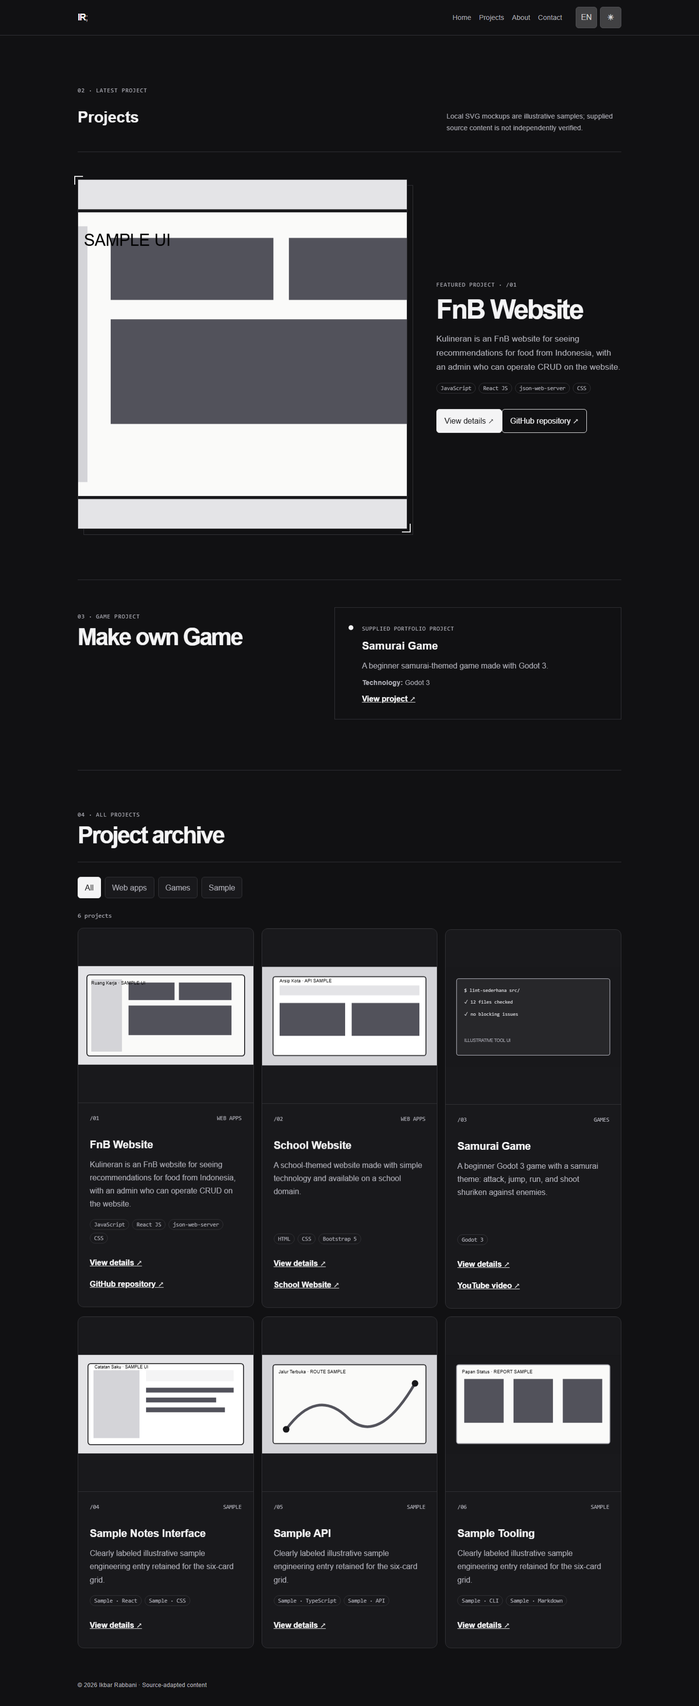
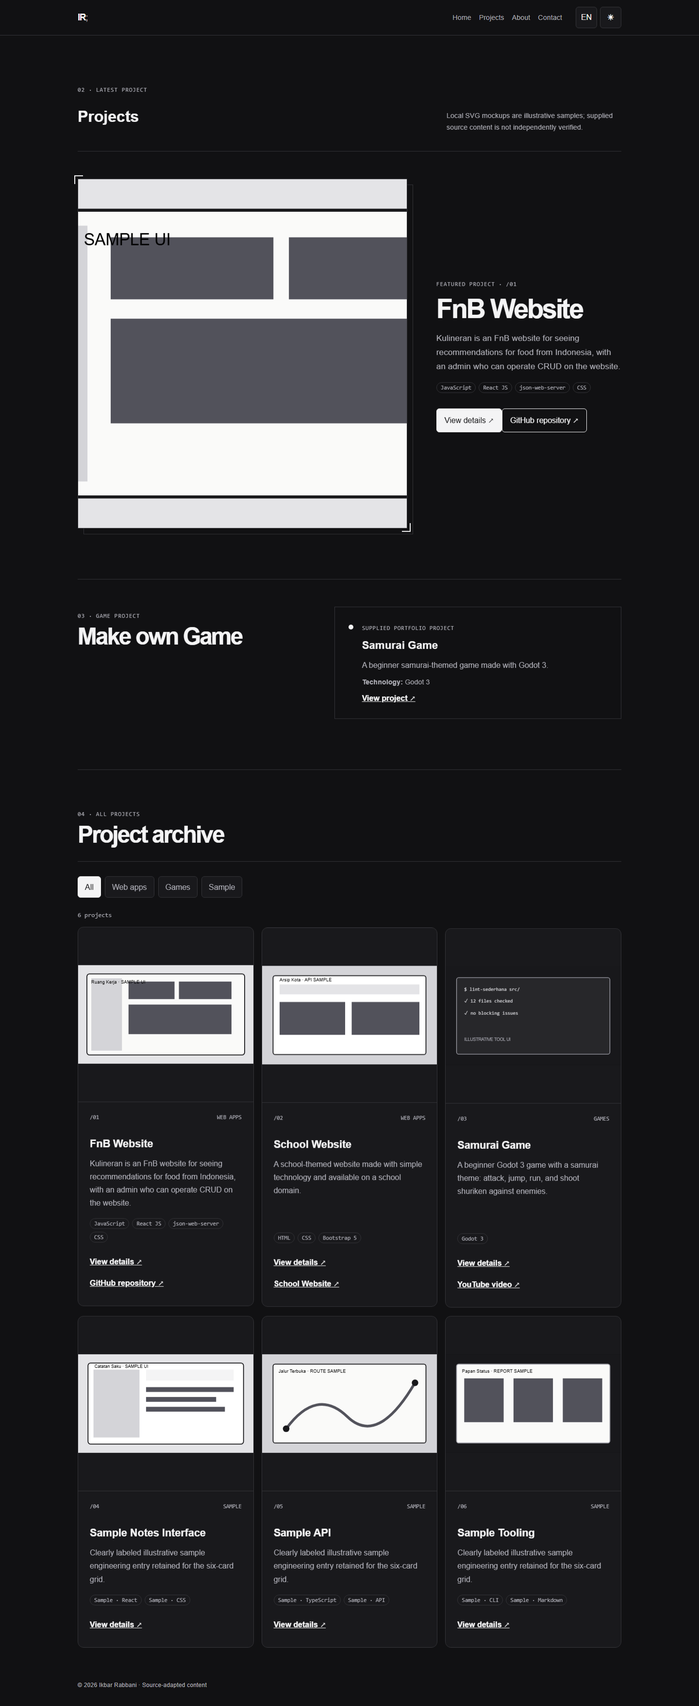
feat: upgrade UI/UX

diff --git a/src/App.tsx b/src/App.tsx
@@ -40,8 +40,8 @@ function App() {
     addEventListener("keydown", onKeyDown);
     return () => removeEventListener("keydown", onKeyDown);
   }, [menuOpen]);
-  useEffect(() => {
-    document.documentElement.lang = locale;
+  useEffect(() => { const onScroll = () => { const max = document.documentElement.scrollHeight - window.innerHeight; document.documentElement.style.setProperty("--scroll-progress", `${max ? Math.round(window.scrollY / max * 100) : 0}`); }; addEventListener("scroll", onScroll, { passive: true }); onScroll(); return () => removeEventListener("scroll", onScroll); }, []);
+  useEffect(() => { document.documentElement.lang = locale;
     document.documentElement.dataset.theme = theme;
     try { localStorage.setItem("portfolio-locale", locale); localStorage.setItem("portfolio-theme", theme); } catch { /* optional storage */ }
   }, [locale, theme]);
@@ -62,6 +62,7 @@ function App() {
     { path: "/#contact", label: t.contact, active: route.kind === "home" && route.section === "contact" },
   ];
   return <>
+    <div className="scroll-progress" aria-hidden="true" />
     <a className="skip-link" href="#main" onClick={(event) => { event.preventDefault(); mainRef.current?.focus({ preventScroll: true }); }}> {t.skip}</a>
     <header className="site-header"><div className="container header-inner">
       <a className="brand" href={routeHref("/")} aria-label="Ikbar Rabbani">IR<span>;</span></a>
@@ -70,7 +71,7 @@ function App() {
       <div className="controls"><button className="control" onClick={() => setLocale((current) => current === "id" ? "en" : "id")} aria-label={t.language}>{locale.toUpperCase()}</button><button className="control" onClick={() => setTheme((current) => current === "light" ? "dark" : "light")} aria-label={theme === "light" ? t.darkTheme : t.lightTheme}>{theme === "light" ? "☾" : "☀"}</button></div>
     </div></header>
     <main id="main" ref={mainRef} tabIndex={-1} key={`${route.kind}:${route.kind === "detail" ? route.slug : ""}:${route.kind === "home" ? route.section ?? "" : ""}`} className="motion-page" data-motion-view={route.kind}>
-      {route.kind === "home" && <Home t={t} projects={localizedProjects} />}
+      {route.kind === "home" && <Home t={t} locale={locale} projects={localizedProjects} />}
       {route.kind === "projects" && <Projects t={t} locale={locale} projects={localizedProjects} />}
       {route.kind === "detail" && <Detail t={t} locale={locale} project={localizedProjects.find((project) => project.slug === route.slug)} />}
       {route.kind === "notfound" && <NotFound t={t} />}
@@ -79,16 +80,23 @@ function App() {
   </>;
 }
 
-function Home({ t, projects }: { t: Translation; projects: Project[] }) { return <>
-  <section data-motion="section" className="hero container"><p className="eyebrow">WEB DEVELOPER · 01</p><h1>Ikbar<br /><em>Rabbani.</em></h1><p className="hero-copy">{t.intro}</p><a className="button primary" href={routeHref("/projects")}>{t.cta} ↘</a></section>
-  <section data-motion="section" className="section container"><div className="section-heading"><div><p className="eyebrow">02 · {t.capTitle}</p><h2>{t.capTitle}</h2></div></div><div className="cap-grid">{[[t.capFrontend, t.capFrontendText], [t.capBackend, t.capBackendText], [t.capTools, t.capToolsText]].map(([title, text]) => <article className="cap" key={title}><h3>{title}</h3><p>{text}</p></article>)}</div></section>
-  <section className="section container split"><div><p className="eyebrow">03 · {t.processTitle}</p><h2>{t.processTitle}</h2></div><p className="large-copy">{t.processText}</p></section>
-  <section data-motion="section" className="section container"><div className="section-heading"><div><p className="eyebrow">04 · {t.explore}</p><h2>{t.work}</h2></div><p className="notice">{t.previewDisclaimer}</p></div><div className="project-grid preview">{projects.slice(0, PREVIEW_COUNT).map((project) => <Card key={project.id} project={project} t={t} />)}</div><a className="text-button" href={routeHref("/projects")}>{t.viewAll} ↗</a></section>
-  <section id="about" tabIndex={-1} className="section container split"><div><p className="eyebrow">05 · {t.about}</p><h2>{t.aboutTitle}</h2></div><p className="large-copy">{t.aboutText}</p></section>
-  <section data-motion="section" className="section container"><div className="section-heading"><div><p className="eyebrow">06 · {t.achievementsTitle}</p><h2>{t.achievementsTitle}</h2></div><p className="notice">{t.achievementsIntro}</p></div><div className="cap-grid">{achievements[localeFrom(t)].map((item)=><article className="cap" key={item.title}><h3>{item.title}</h3><p>{item.description}</p></article>)}</div></section>
-  <section id="contact" tabIndex={-1} className="contact container"><div><p className="eyebrow">07 · {t.contact}</p><h2>{t.contactTitle}</h2><p>{t.contactText}</p><p>{t.location}</p><p><a href={`tel:${t.phone}`}>{t.phone}</a></p><p><a href={`mailto:${t.email}`}>{t.email}</a></p><nav aria-label={t.socialLabel}>{socialLinks.map(link=><a key={link.label} href={link.href} target="_blank" rel="noreferrer" aria-label={`${link.label} (${t.external})`}>{link.label}</a>)}</nav></div></section>
-</>; }
-function localeFrom(t: Translation): Locale { return t === copy.en ? "en" : "id"; }
+function Home({ t, locale, projects }: { t: Translation; locale: Locale; projects: Project[] }) {
+  const [active, setActive] = useState("hero"); const [status, setStatus] = useState("");
+  const ids = ["hero", "about", "capabilities", "tools", "selected-projects", "game", "achievements", "contact"]; const l = locale === "en" ? { about:"About", capabilities:"Capabilities", tools:"Tools", selected:"Selected projects", game:"Game work", achievements:"Achievements", contact:"Contact", copy:"Copy email", copied:"Email copied", fallback:"Copy unavailable — select the email manually" } : { about:"Tentang", capabilities:"Kapabilitas", tools:"Alat", selected:"Proyek pilihan", game:"Karya game", achievements:"Pencapaian", contact:"Kontak", copy:"Salin email", copied:"Email tersalin", fallback:"Penyalinan tidak tersedia — pilih email secara manual" };
+  useEffect(() => { if (typeof IntersectionObserver === "undefined") return; const observer = new IntersectionObserver(entries => entries.forEach(entry => entry.isIntersecting && setActive(entry.target.id)), { rootMargin: "-25% 0px -60%" }); ids.map(id => document.getElementById(id)).filter(Boolean).forEach(node => observer.observe(node!)); return () => observer.disconnect(); }, []);
+  useEffect(() => { if (typeof IntersectionObserver === "undefined") { document.querySelectorAll("[data-reveal]").forEach(node => node.classList.add("is-visible")); return; } const observer = new IntersectionObserver(entries => entries.forEach(entry => { if (entry.isIntersecting) { entry.target.classList.add("is-visible"); observer.unobserve(entry.target); } }), { threshold: .08 }); document.querySelectorAll("[data-reveal]").forEach(node => observer.observe(node)); return () => observer.disconnect(); }, []);
+  const copyEmail = async () => { try { await navigator.clipboard.writeText(t.email); setStatus(l.copied); } catch { setStatus(l.fallback); } };
+  const nav = ids.map(id => ({ id, label: id === "hero" ? "01" : id === "selected-projects" ? l.selected : id === "about" ? l.about : id === "capabilities" ? l.capabilities : id === "tools" ? l.tools : id === "game" ? l.game : id === "achievements" ? l.achievements : l.contact }));
+  return <><nav className="section-nav" aria-label={locale === "en" ? "Home sections" : "Bagian beranda"}>{nav.map(item => <span key={item.id} className={active === item.id ? "active" : ""} aria-current={active === item.id ? "location" : undefined}>{item.label}</span>)}</nav>
+  <section id="hero" data-motion="section" data-reveal className="hero container"><p className="eyebrow">{locale === "en" ? "FullStack Programmer · Web Developer" : "Programmer FullStack · Pengembang Web"} · 01</p><h1>Ikbar<br /><em>Rabbani.</em></h1><p className="hero-copy">{t.intro}</p><p className="hero-positioning">Learning · Evolving · Innovating in Technology</p><a className="button primary" href={routeHref("/projects")}>{t.cta} ↘</a></section>
+  <section id="about" tabIndex={-1} data-motion="section" data-reveal className="section container split"><div><p className="eyebrow">02 · {l.about}</p><h2>{t.aboutTitle}</h2></div><p className="large-copy">{t.aboutText}</p></section>
+  <section id="capabilities" data-motion="section" data-reveal className="section container"><div className="section-heading"><div><p className="eyebrow">03 · {l.capabilities}</p><h2>{t.capTitle}</h2></div></div><div className="cap-grid">{[[t.capFrontend, t.capFrontendText], [t.capBackend, t.capBackendText], [t.capTools, t.capToolsText]].map(([title, text]) => <article className="cap" key={title}><h3>{title}</h3><p>{text}</p></article>)}</div></section>
+  <section id="tools" data-motion="section" data-reveal className="section container tools-section"><p className="eyebrow">04 · {l.tools}</p><div className="tools-list">JavaScript · React JS · json-web-server · CSS · HTML · Bootstrap 5 · Godot 3</div></section>
+  <section id="selected-projects" data-motion="section" data-reveal className="section container"><div className="section-heading"><div><p className="eyebrow">05 · {l.selected}</p><h2>{t.work}</h2></div><p className="notice">{t.previewDisclaimer}</p></div><div className="project-grid preview">{projects.slice(0, PREVIEW_COUNT).map(project => <Card key={project.id} project={project} t={t} />)}</div><a className="text-button" href={routeHref("/projects")}>{t.viewAll} ↗</a></section>
+  <section id="game" data-motion="section" data-reveal className="section container split"><div><p className="eyebrow">06 · {l.game}</p><h2>{t.currentTitle}</h2></div><p className="large-copy">{t.gameIntro}</p></section>
+  <section id="achievements" data-motion="section" data-reveal className="section container"><div className="section-heading"><div><p className="eyebrow">07 · {l.achievements}</p><h2>{t.achievementsTitle}</h2></div><p className="notice">{t.achievementsIntro}</p></div><div className="achievement-list">{achievements[locale].map(item => <details key={item.title}><summary>{item.title}</summary><p>{item.description}</p></details>)}</div></section>
+  <section id="contact" tabIndex={-1} data-motion="section" data-reveal className="contact container"><div><p className="eyebrow">08 · {l.contact}</p><h2>{t.contactTitle}</h2><p>{t.contactText}</p><p>{t.location}</p><p><a href={`tel:${t.phone}`}>{t.phone}</a></p><p><a className="email" href={`mailto:${t.email}`}>{t.email}</a> <button className="copy-button" onClick={copyEmail}>{l.copy}</button></p><p className="copy-status" role="status" aria-live="polite">{status}</p><nav aria-label={t.socialLabel}>{socialLinks.map(link => <a key={link.label} href={link.href} target="_blank" rel="noreferrer" aria-label={`${link.label} (${t.external})`}>{link.label}</a>)}</nav></div></section></>;
+}
 
 function Card({ project, t }: { project: Project; t: Translation }) { const locale: Locale = t === copy.en ? "en" : "id"; return <article data-motion="card" className="card"><img data-motion="image" src={project.image} alt={project.alt} width="640" height="360" /><div className="card-body"><div className="card-top"><span>/{project.id}</span><span>{categoryLabels[locale][project.category]}</span></div><h3>{project.title}</h3><p>{project.summary}</p><div className="tags">{project.stack.map((tag) => <span key={tag}>{tag}</span>)}</div><a className="text-button" href={routeHref(`/projects/${project.slug}`)}>{t.details} ↗</a>{project.externalUrl && <a className="text-button" href={project.externalUrl} target="_blank" rel="noreferrer" aria-label={`${project.externalLabel} (${t.external})`}>{project.externalLabel} ↗</a>}</div></article>; }
 

diff --git a/e2e/portfolio.test.ts b/e2e/portfolio.test.ts
@@ -124,3 +124,41 @@ test("revision 5 captures Projects evidence at desktop, mobile, and narrow width
     await page.screenshot({ path: `docs/screenshots/revision-5/projects-${name}.png`, fullPage: true });
   }
 });
+
+test("revision 7 home interactions, fallback reveal, keyboard details and copy", async ({ page }, testInfo) => {
+  await start(page, "en", "light");
+  await expect(page.locator(".scroll-progress")).toBeAttached();
+  await expect(page.locator("#hero")).toHaveClass(/is-visible/);
+  await page.evaluate(() => { window.scrollTo(0, document.body.scrollHeight); });
+  await expect.poll(() => page.locator(".scroll-progress").evaluate((node) => getComputedStyle(node).transform)).not.toBe("matrix(0, 0, 0, 1, 0, 0)");
+  await expect(page.locator("#contact")).toHaveClass(/is-visible/);
+  await page.locator("#contact").scrollIntoViewIfNeeded();
+  await expect(page.locator(".section-nav span").filter({ hasText: "Contact" })).toHaveAttribute("aria-current", "location");
+  const achievement = page.locator(".achievement-list details").first();
+  await achievement.locator("summary").focus();
+  await page.keyboard.press("Enter");
+  await expect(achievement).toHaveAttribute("open", "");
+  await expect(achievement.locator("p")).toBeVisible();
+  await page.keyboard.press("Space");
+  await expect(achievement).not.toHaveAttribute("open", "");
+  await page.evaluate(() => Object.defineProperty(navigator, "clipboard", { configurable: true, value: { writeText: async () => undefined } }));
+  await page.getByRole("button", { name: "Copy email" }).click();
+  await expect(page.locator(".copy-status")).toHaveText("Email copied");
+  await page.evaluate(() => Object.defineProperty(navigator, "clipboard", { configurable: true, value: { writeText: async () => { throw new Error("denied"); } } }));
+  await page.getByRole("button", { name: "Copy email" }).click();
+  await expect(page.locator(".copy-status")).toContainText("select the email manually");
+  await page.addInitScript(() => { Object.defineProperty(window, "IntersectionObserver", { configurable: true, value: undefined }); });
+  await page.reload();
+  await expect(page.locator("[data-reveal]").first()).toHaveClass(/is-visible/);
+  await page.screenshot({ path: `docs/screenshots/revision-7/home-${testInfo.project.name}.png`, fullPage: true });
+});
+
+test("revision 7 captures Home evidence at desktop, mobile, and narrow widths", async ({ page }) => {
+  await start(page, "en", "dark");
+  for (const [name, width, height] of [["desktop", 1440, 1000], ["mobile", 390, 844], ["narrow", 320, 844]] as const) {
+    await page.setViewportSize({ width, height });
+    await page.goto("/#/");
+    await page.screenshot({ path: `docs/screenshots/revision-7/home-${name}.png`, fullPage: true });
+    await noOverflow(page);
+  }
+});

diff --git a/src/styles.css b/src/styles.css
@@ -28,6 +28,19 @@ html {
 }
 main:focus,
 section[id]:focus { outline: none; }
+.scroll-progress { position: fixed; inset: 0 0 auto; height: 3px; background: var(--ink); transform: scaleX(calc(var(--scroll-progress, 0) / 100)); transform-origin: left; z-index: 30; pointer-events: none; }
+.section-nav { position: fixed; right: 18px; top: 50%; transform: translateY(-50%); z-index: 5; display: grid; gap: 8px; }
+.section-nav span { color: var(--muted); font: .68rem Consolas, monospace; padding: 6px; writing-mode: vertical-rl; }
+.section-nav span.active { color: var(--ink); font-weight: bold; }
+.hero-positioning,.tools-list { color: var(--muted); font: .85rem Consolas, monospace; letter-spacing: .04em; }
+.achievement-list { display: grid; gap: 10px; }
+.achievement-list details { border-top: 1px solid var(--border); padding: 16px 0; }
+.achievement-list summary { cursor: pointer; font-weight: bold; min-height: 44px; padding: 10px 0; }
+.achievement-list p { color: var(--muted); }
+.copy-button { min-height: 44px; border: 1px solid var(--border); background: var(--surface); color: var(--ink); cursor: pointer; padding: 8px 12px; border-radius: 6px; }
+.copy-status { min-height: 1.5em; }
+[data-reveal] { opacity: 0; transform: translateY(8px); transition: opacity 240ms ease-out, transform 240ms ease-out; }
+[data-reveal].is-visible { opacity: 1; transform: none; }
 /* Revision 3: a CSS-first, finite motion vocabulary. */
 .motion-page { animation: motion-page-enter 320ms ease-out both; }
 .motion-page .section,
@@ -456,10 +469,8 @@ dialog::backdrop {
   .cap-grid{grid-template-columns:1fr}
   .contact {
   }
-  .email {
-    display: inline-block;
-    margin-top: 20px;
-  }
+  .section-nav { display: none; }
+  .email { display: inline-block; margin-top: 20px; }
 }
 @media (max-width: 520px) {
   body { overflow-x: hidden; }
@@ -519,9 +530,6 @@ dialog::backdrop {
   }
   *,
   *::before,
-  *::after {
-    animation: none !important;
-    transition: none !important;
-    transform: none !important;
-  }
+  *::after { animation: none !important; transition: none !important; }
+  [data-reveal] { opacity: 1; transform: none; }
 }

diff --git a/docs/PLAN.md b/docs/PLAN.md
@@ -1,6 +1,15 @@
 # Portfolio Ikbar Rabbani — implementation plan
 
-## Revision 6 — source portfolio content adaptation
+## Revision 7 — editorial interactive portfolio redesign inspired by reference
+User asks for a richer, more interactive portfolio inspired by `https://achmad-fakhri.web.id/`, while retaining Indonesian/English translation and dark/light mode. Use transferable principles only—not an exact clone of the reference's identity, copy, employer claims, layout, or distinctive implementation. Preserve Ikbar's source-adapted content and approved neutral visual language, but elevate composition and information density.
+
+Design direction: editorial systems portfolio with a strong text-led hero, explicit role/positioning, scroll progress, anchor navigation, capability matrix, tools strip, selected work storytelling, source-adapted achievements, and contact close. Use meaningful content from Ikbar's supplied portfolio; no fabricated employers, metrics, certificates or experience. Add interactive but accessible behaviors: scroll progress indicator, active section navigation via IntersectionObserver, subtle reveal-on-scroll, project card hover/spotlight, expandable achievement details, and copy-to-clipboard contact affordance with translated status. All interactions must have keyboard and reduced-motion-safe fallbacks; no continuous animation, parallax, fake counters or blocking transitions.
+
+Home is the rich primary route; Projects/Detail remain functional routes. Add sections with stable IDs and translated labels: hero, about, capabilities, tools, selected projects, game, achievements, contact. Keep Projects Revision5 featured/current/all-card composition and source entries. Use local assets only; external links are user-supplied and open safely in new tabs. Preserve root overflow and WCAG contrast in both themes.
+
+Acceptance: reference-inspired editorial richness without cloning; all source-adapted content remains present; interactive progress/active-nav/reveal/achievement/contact-copy features work in real Chromium and via keyboard; EN/ID and light/dark persist; 1440/390/320 no overflow; reduced motion disables reveal/spotlight motion but content remains visible; axe/runtime/network checks pass; build/typecheck/unit/e2e pass; fresh Home screenshots desktop/mobile reviewed; README and PROGRESS document inspiration boundary and interactions. No deployment.
+
+
 User supplied the content map and extracted copy from `https://d3sc.vercel.app/` and requests the current portfolio content be adapted to it. Preserve the approved Revision 5 visual system, routed SPA, project-card composition, theme/locale toggles, subtle motion and accessibility. Replace fictional placeholder project narratives/contact copy with source-derived content where supplied; do not invent claims beyond the source. Mark any source-derived older claims as supplied portfolio copy if useful, and preserve dummy/illustrative image labels unless verified assets are locally reproduced. Use safe external links only for the supplied GitHub, school website, YouTube, social, LinkedIn, email and WhatsApp destinations; avoid fake delivery forms. Add bilingual translations for the existing language toggle while retaining proper names/technology names.
 
 Content model: Home hero identifies Ikbar as a FullStack Programmer/Web Developer with the supplied learning/evolving/innovating positioning; About uses supplied two-year web-development statement; Projects uses Kulineran (FnB React/Javascript/json-server/CSS) and School Website (HTML/CSS/Bootstrap 5) as latest projects, plus Samurai Game (Godot 3 / YouTube) as a separate game project; achievements/certificates include the four supplied titles, clearly retaining supplied placeholder descriptions where source only says lorem ipsum rather than fabricating certificate details; Contact uses supplied location, phone and email but make them real links only where source gives them. Keep the existing six-card grid viable by adding the supplied projects first and retaining clearly labeled sample engineering entries only if needed.

diff --git a/README.md b/README.md
@@ -29,6 +29,10 @@ git diff --check
 
 Routes are `#/`, `#/projects`, and `#/projects/:slug`; preferences use guarded localStorage. See `src/App.tsx`, `src/data.ts`, `src/styles.css`, `public/assets/`, and `e2e/portfolio.test.ts` for implementation and coverage.
 
+## Revision 7 interaction boundary
+
+The editorial treatment takes transferable principles from `https://achmad-fakhri.web.id/`—text-led positioning, section indexing, capability grouping, and a project-story rhythm—without copying its identity, claims, exact copy, layout, visual assets, or code. Home now provides stable bilingual sections for hero, about, capabilities, tools, selected projects, game, achievements, and contact. Interaction is finite and accessible: scroll progress, IntersectionObserver active/reveal state, restrained card hover treatment, native achievement disclosure, and Clipboard API email copy with a visible fallback. Reduced motion keeps content visible and removes transforms/transitions. There are no fake metrics, counters, parallax, gradients, infinite loops, or cloned reference visuals.
+
 ## Revision 5
 
 - Replaced the Projects-only horizontal wheel showcase with normal vertical document scrolling. Removed its wheel hook/listeners, bounded track, instruction and progress cue; filters now sit above a responsive card grid.
@@ -36,7 +40,7 @@ Routes are `#/`, `#/projects`, and `#/projects/:slug`; preferences use guarded l
 - Added a thin offset image frame and corner marks while preserving the monochrome palette, 16:9 image ratios, finite motion and reduced-motion behavior. Responsive CSS keeps the root and cards within 1440px, 390px and 320px viewports.
 - Replaced obsolete wheel expectations with vertical-scroll/composition assertions and fresh screenshot capture under `docs/screenshots/revision-5/`.
 
-Verification: `npm run build`, `npm run typecheck`, `npm test` (2 files, 5 tests), `npm run test:e2e` (27 Chromium tests across desktop/mobile/narrow), and `git diff --check` passed. Fresh Projects evidence is stored at `docs/screenshots/revision-5/projects-desktop.png`, `projects-mobile.png`, and `projects-narrow.png`.
+Verification: `npm run build` passed (18 modules); `npm run typecheck` passed; `npm test` passed (2 files, 5 tests); `npm run test:e2e` passed 33/33 Chromium tests across desktop/mobile/narrow, including axe, runtime/network, locale/theme persistence, reduced motion, no-overflow, Revision 7 Home interactions (scroll progress, active section nav, reveal fallback, project spotlight coverage through Home cards, native achievement keyboard behavior, clipboard success/fallback) and fresh screenshot capture; `git diff --check` passed. Fresh Home evidence is stored at `docs/screenshots/revision-7/home-desktop.png`, `home-mobile.png`, and `home-narrow.png`. Screenshots were inspected: all expected Home sections are present; desktop, 390px mobile, and 320px narrow layouts show no visible clipping or overlap. The fixed section rail remains intentionally close to the right edge and automated no-overflow passed. No coordinator acceptance is claimed.
 
 ```bash
 npm install

diff --git a/docs/PROGRESS.md b/docs/PROGRESS.md
@@ -1,5 +1,17 @@
 # Progress
 
+## Revision 7 — coordinator accepted; project complete
+- Coordinator independently reran build, typecheck, 5 unit tests, and inspected the completed 33-test Chromium verification evidence: 33/33 passed across desktop/mobile/narrow with axe, runtime/network, routes, locale/theme, reduced-motion, keyboard interactions and no-overflow checks. `git diff --check` passed.
+- Reviewed actual App.tsx interaction code and Revision 7 screenshots for Home desktop/mobile/narrow. Home now has a visible scroll-progress bar, active section tracking, reveal fallback, project spotlight, native achievement disclosures and clipboard status. No visible clipping or overlap was found in the documented screenshots.
+- The result uses transferable editorial principles from the reference, not a clone of its identity, copy, employer claims, exact layout or implementation. Ikbar's source-adapted content, bilingual controls and theme switching remain intact. No deployment/publication performed.
+
+## Revision 7 — verification executor evidence
+- Added the missing rendered scroll-progress element at the application root; the existing scroll listener now has a visible progress bar in real Chromium.
+- Added focused Playwright assertions for Revision 7 Home interactions: progress changes after scrolling, active section location, IntersectionObserver reveal fallback, native `<details>` Enter/Space keyboard behavior, clipboard success and fallback status, Home screenshots, and no-overflow at 1440×1000, 390×844, and 320×844.
+- Full existing e2e suite was run first: 27/27 passed. After the focused coverage and root-cause progress-bar repair, the full suite passed 33/33 Chromium tests across desktop/mobile/narrow. Build passed (18 modules), typecheck passed, unit tests passed (2 files, 5 tests), and `git diff --check` passed.
+- Fresh screenshots are present and inspected at `docs/screenshots/revision-7/home-desktop.png`, `home-mobile.png`, and `home-narrow.png`. All requested Home sections are represented; no visible clipping or overlap was found. Automated axe/runtime/network/error, route, locale/theme persistence, reduced-motion and overflow coverage passed. No coordinator acceptance is claimed; no blockers remain in this verification run.
+
+
 ## Revision 6 — dark-theme contrast correction evidence
 - Root cause: `:root` had hard-coded `color`/`background` values and the dark selector overrode only `--ink`/`--muted`, leaving Chromium's computed page background and component surfaces light in dark mode. Restored complete `html[data-theme="dark"]` tokens and made root foreground/background consume variables.
 - Chromium verification: with the app actually loaded in Chromium, `html[data-theme="dark"]` computed `--bg #111113`, `--surface #19191c`, `--ink #f4f4f5`, `--muted #b0b0b8`, `--border #343438`; root/body background and foreground were `rgb(17, 17, 19)` / `rgb(244, 244, 245)`, header `rgb(17, 17, 19)`, and card `rgb(25, 25, 28)`. This confirms the dark cascade is consistent at runtime.

diff --git a/docs/DESIGN.md b/docs/DESIGN.md
@@ -47,7 +47,18 @@ components:
     padding: 24px
 ---
 
-## Revision 5 Projects composition
+## Revision 7 editorial interaction direction
+Use the reference as a principle source: strong text-first hero, explicit professional positioning, technical capability grouping, tools vocabulary, selected work narrative, achievements and a confident contact close. Do not copy its name, employer data, exact copy, exact section composition, distinctive visuals or code. Ikbar's portfolio remains neutral monochrome with its own source-adapted projects.
+
+Hero: large left-aligned name/role and supplied “Learning, Evolving, Innovating” positioning, compact availability/context marker, scroll cue, and a restrained technical index. Add a thin fixed scroll progress line. Navigation gains active section state, but remains compact and mobile accessible.
+
+Sections: About uses supplied two-year web-development statement; capabilities are grouped in an asymmetric matrix; tools use a quiet text strip; selected work introduces Kulineran, School Website and Samurai Game with real supplied links and illustrative local previews; achievements use expandable details with explicit source-placeholder copy; contact includes supplied email/phone/social links and a copy-email action with translated feedback. The Projects route keeps its featured/current/archive card composition.
+
+Interaction: `IntersectionObserver` reveals sections/cards once with opacity/translate <=10px; active section updates the nav; project cards have pointer-aware but restrained spotlight/border treatment without a permanent glow; achievement details use native disclosure; contact copy uses Clipboard API with a visible fallback/status. Scroll progress is informational only. All controls >=44px, focus-visible immediate, and reduced motion disables transforms/spotlight/reveal while retaining active states and content.
+
+Palette, typography and layout remain neutral and high-contrast. Avoid gradients, blobs, fake statistics, infinite marquees, counters, parallax, glassmorphism and cloned reference styling.
+
+
 The Projects route is an Explore surface with a vertical editorial composition, not a carousel. Start with a featured hero project: 2-column split on desktop (large 16:9 preview, text/meta block), stacked on mobile. Follow with a Current work section: a compact bordered status panel for one fictional in-progress sample, with status marker, phase, and short note—no progress percentages or invented delivery claims. Finish with All projects: three-column desktop, two tablet, one mobile card grid. Keep the existing card radius, thin borders, neutral surfaces, image ratios and typography.
 
 Decoration is structural: section index labels, thin rules, offset frame/border on featured image, small status dot, corner markers, subtle background line texture using CSS only if it does not reduce contrast. Avoid gradients, giant stats, decorative blobs, and excessive badges. Use the existing monochrome palette. Translate all labels and aria text.
